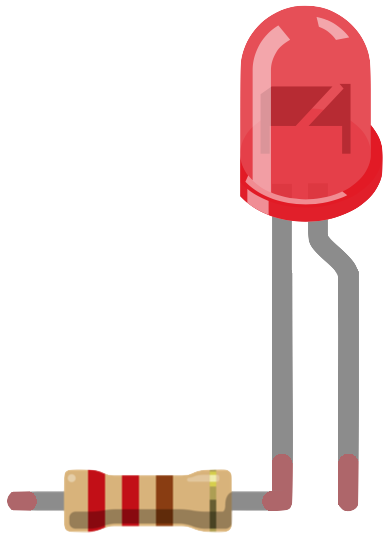
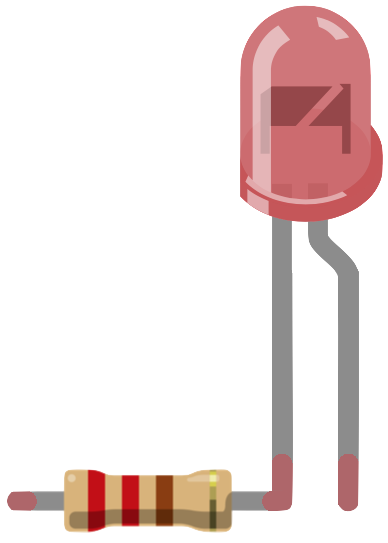
Add LED glow

Changed region(s): [[0.6186, 0.0, 0.9897, 0.4125]]

diff --git a/sketch.js b/sketch.js
@@ -19,7 +19,7 @@ let servoAngle = 0;
 
 function preload() {
   servoImage = loadImage("assets/servo-fan.png");
-  ledImage = loadImage("assets/LED.png");
+  ledImage = loadImage("assets/LED-glow.png");
 }
 
 function setup() {
@@ -108,16 +108,16 @@ function scope() {
 }
 
 function averageVoltage() {
-    const c = lerpColor(color('black'), color('red'), dutyCycle)
-    const [r, g, b] = c.levels;
-    const y = lerp(PWM_LOW_Y, PWM_HIGH_Y, dutyCycle);
-    noStroke();
-    fill(r, g, b, 100);
-    rect(0, y, width, PWM_LOW_Y - y);
-    noFill();
-    stroke(r, g, b, 200);
-    strokeWeight(4);
-    line(0, y, width, y);
+  const c = lerpColor(color('black'), color('red'), dutyCycle)
+  const [r, g, b] = c.levels;
+  const y = lerp(PWM_LOW_Y, PWM_HIGH_Y, dutyCycle);
+  noStroke();
+  fill(r, g, b, 100);
+  rect(0, y, width, PWM_LOW_Y - y);
+  noFill();
+  stroke(r, g, b, 200);
+  strokeWeight(4);
+  line(0, y, width, y);
 }
 
 function servo() {
@@ -151,20 +151,12 @@ function led() {
   const elt = document.getElementById("led-animation");
   const brightness = 255 * dutyCycle;
 
-  // push()
-  // translate(elt.offsetLeft, elt.offsetTop);
-  // imageMode(RIGHT)
-  // tint(brightness)
-  // scale(elt.offsetHeight / ledImage.height);
-  // image(ledImage, 0, 0);
-  // pop();
-
   push();
-  translate(elt.offsetLeft + elt.offsetWidth / 2, elt.offsetTop + elt.offsetHeight / 2);
-  noStroke();
-  fill(255, 0, 0, brightness / 2);
-  ellipse(-9, -10, 21, 27);
-  fill(255, 0, 0, brightness);
+  translate(elt.offsetLeft, elt.offsetTop);
+  imageMode(RIGHT);
+  scale(elt.offsetHeight / ledImage.height);
+  tint(255, brightness);
+  image(ledImage, 0, 0);
   pop();
 }
 

diff --git a/styles.css b/styles.css
@@ -21,7 +21,7 @@ h1 {
 #led-animation {
   display: inline-block;
   width: 60px;
-  height: 38px;
+  height: 35px;
   margin-left: 5px;
   background: url(assets/LED.png) no-repeat;
   background-size: contain;
